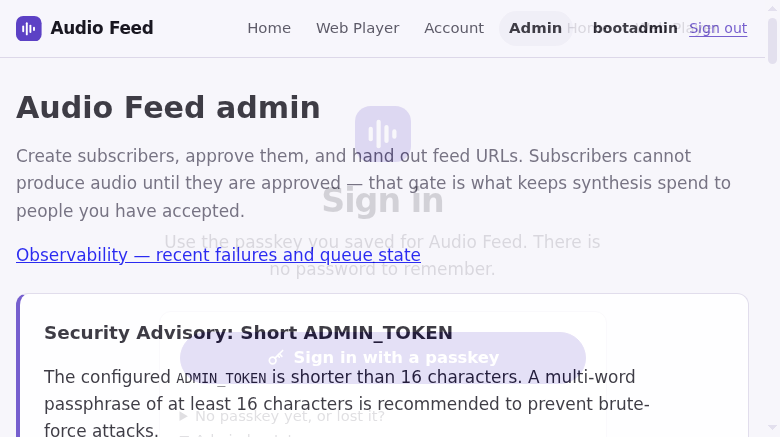
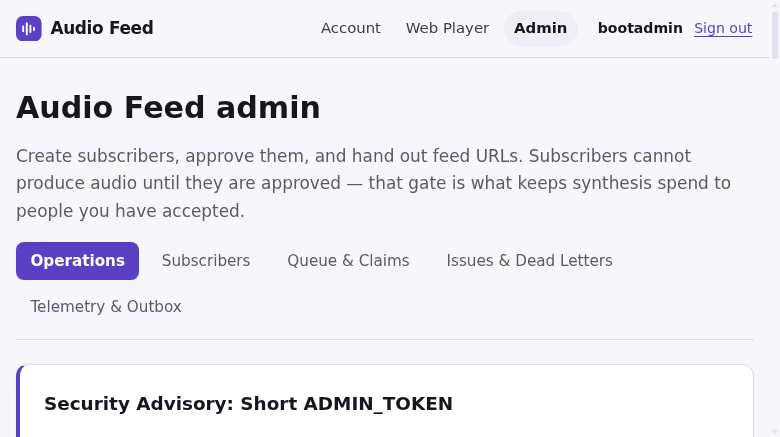
evidence(seed): audio-feed-8eh leaves a run.json from a real Chrome run on this VM (audio-feed-uq47g)
WHY
Seed slice 1 of the run.json backfill: docs/evidence/audio-feed-8eh declared
scripts/bootstrap-browser-proof.ts but carried no record, so the tier printed "no record" and the
directory could not be re-verified without a human.

RECORD
sha 8a94b7ed (the commit that carries the notes fix, so the record names the tree that actually
produced it - the branch is based on pilot tip 0c41fc94, not yet merged into origin/main),
exit 0, marker true, bound 120000ms from the flag, 12.4s of proof time, wall 13s, one artefact,
re-hashed from disk after the write and matching the record (0 mismatches) - no RECORD TAMPERED.

THE CAPTURE CHANGED AND IS KEPT
01-admin-bootstrap-success.png differs from the committed bytes (78603 -> 66597). That is the
behaviour audio-feed-rxo1 already measured and declared for this directory: THREE DISTINCT IMAGES
IN FOUR CAPTURES AT ONE COMMIT. A fresh capture that differs is the expected outcome, not a
regression, and the five assertions in the Execution Log are the check. Committing today's image
keeps record and disk in agreement; restoring the archived one would instead make every hash in
this record disagree with the tree forever.

ALSO IN THIS COMMIT
The README the run regenerated, which now carries the rxo1 declaration as a `- Notes:` line (see the
preceding commit) instead of silently dropping it.

Release-note: none user-visible: internal (a run.json record for docs/evidence/audio-feed-8eh plus today's capture).

diff --git a/docs/evidence/audio-feed-8eh/README.md b/docs/evidence/audio-feed-8eh/README.md
@@ -1,9 +1,8 @@
 # Browser Acceptance Proof: audio-feed-8eh
 
 - Script: scripts/bootstrap-browser-proof.ts
-- Asserts: signed-out /admin links to bootstrap; #bootstrap fragment auto-opens Admin bootstrap
-  details; invalid admin token shows error feedback; bootstrap completes passkey registration and
-  redirects to /admin; admin console is signed in as new bootstrap admin
+- Notes: audio-feed-rxo1: NOT bit-reproducible - the same proof at one commit produced THREE DISTINCT IMAGES IN FOUR CAPTURES, so a re-run whose pixels differ is EXPECTED and is not a failure; the five assertions in the Execution Log are the check, the screenshot is the receipt (spread-declared in docs/evidence/README.md's determinism table)
+- Asserts: signed-out /admin links to bootstrap; #bootstrap fragment auto-opens Admin bootstrap details; invalid admin token shows error feedback; bootstrap completes passkey registration and redirects to /admin; admin console is signed in as new bootstrap admin
 
 ## Feature
 
@@ -19,20 +18,6 @@ PASS  bootstrap completes passkey registration and redirects to /admin  landed o
 PASS  admin console is signed in as new bootstrap admin  signed in header: bootadmin
 ```
 
-## Reproducibility (audio-feed-rxo1)
-
-**THIS CAPTURE IS NOT BIT-REPRODUCIBLE, AND THAT IS DECLARED RATHER THAN HIDDEN.** The same proof
-run at one commit produced **THREE DISTINCT IMAGES IN FOUR CAPTURES**, so the PNG below is a record
-of a correct run rather than a fixture - a re-run whose pixels differ is EXPECTED and is not a
-failure.
-
-What IS deterministic is the part the proof exists for: the five assertions in the Execution Log
-above. They are the check; the screenshot is the receipt. This row is the `spread-declared`
-disposition in `docs/evidence/README.md`'s determinism table, and this paragraph is the declaration
-that row requires - a reader who compares this PNG byte-for-byte against a fresh capture would
-otherwise conclude, wrongly, that the proof had regressed.
-
 ## Evidence Artifacts
 
-- 01-admin-bootstrap-success.png: Screenshot of /admin console showing the newly bootstrapped admin
-  signed in.
+- 01-admin-bootstrap-success.png: Screenshot of /admin console showing the newly bootstrapped admin signed in.
